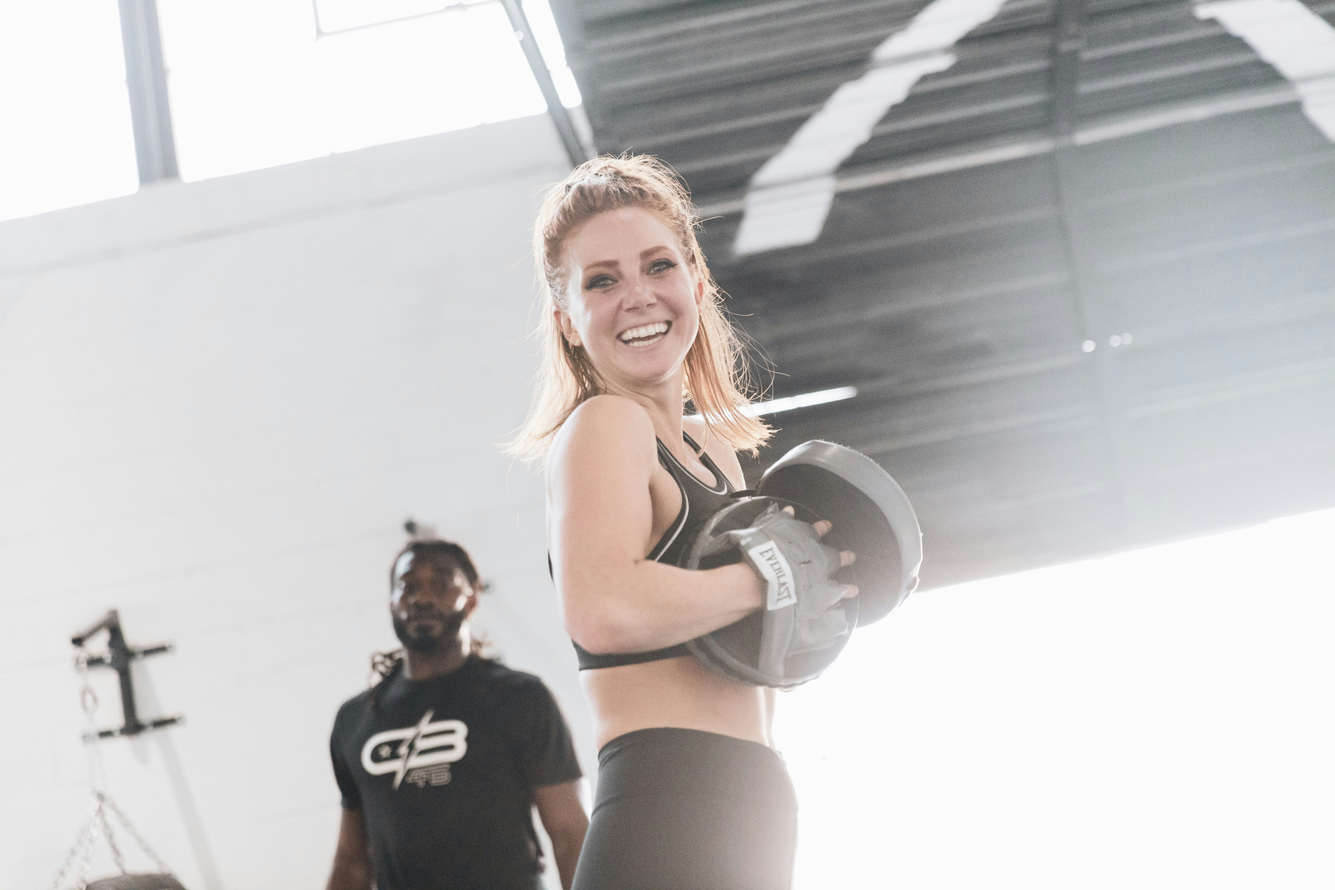
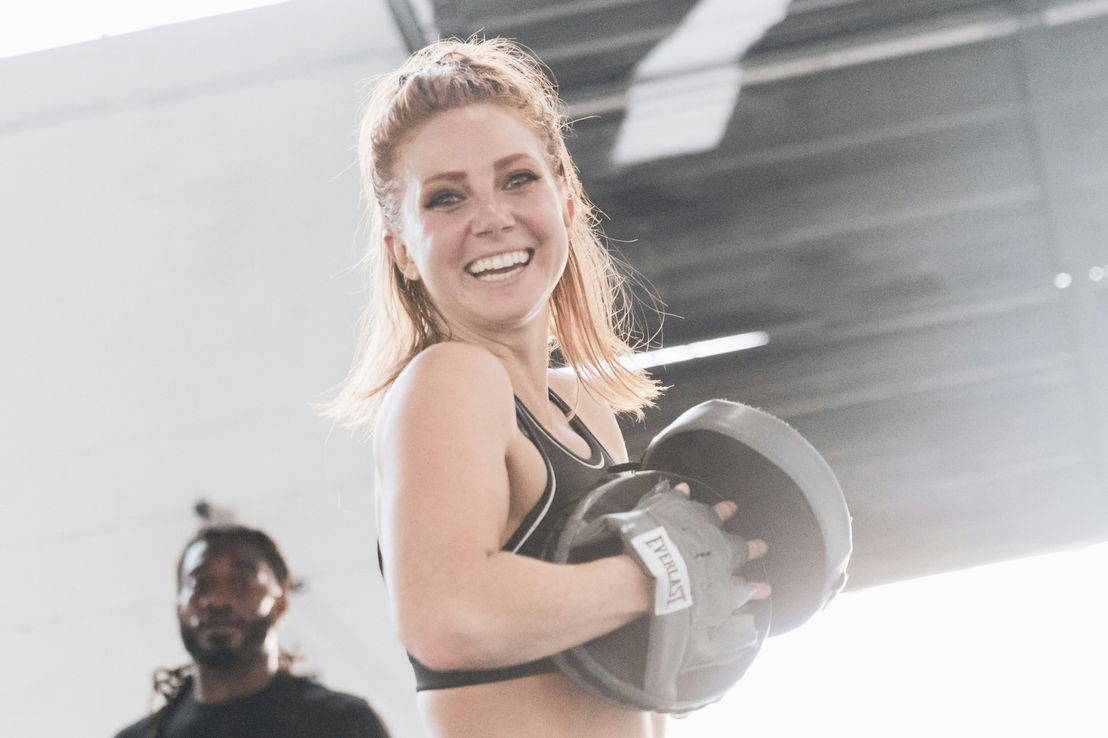
WIP: Continued working on the personal trainers section of the homepage, potentially done maybe?

diff --git a/src/components/TrainerCard.vue b/src/components/TrainerCard.vue
@@ -31,13 +31,9 @@ defineProps({
 
 <style scoped>
 section.trainer-card {
-  display: flex;
-  flex-direction: column;
-  //border: 1px solid lightgray;
-  //border-radius: 10px;
+  display: block;
   width: 100%;
-  gap: 1rem;
-  padding: 1rem 0 1rem 0;
+  padding: 1rem 0 2rem 0;
   align-items: center;
   text-align: center;
 
@@ -45,31 +41,29 @@ section.trainer-card {
     list-style-position: inside;
   }
 
-
   .photo {
-    height: 225px;
-    width: 450px;
 
     img {
       width: 100%;
       display: block;
       max-height: 225px;
       object-fit: cover;
-    }
-
-    div.details {
-      display: flex;
-      padding: 1rem;
-
-      p {
-        text-align: center;
-      }
+      object-position: 0 10%;
     }
   }
 
-  button {
-    background-color: #272727;
-    color: white;
+  div.details {
+    padding: 1rem;
+
+    p {
+      text-align: center;
+    }
   }
 }
+
+button {
+  background-color: #272727;
+  color: white;
+}
+
 </style>

diff --git a/src/trainer_data.js b/src/trainer_data.js
@@ -5,7 +5,7 @@ const data =
             "photo": "src/assets/simone-davis.jpg",
             "first_name": "Simone",
             "last_name": "Davis",
-            "description": "With a passion for inclusivity, Simone creates dynamic and energetic classes that focus on cardio and high-intensity interval training. As an advocate for body positivity, Simone encourages a supportive environment.",
+            "description": "With a passion for inclusivity, Simone creates dynamic and energetic classes that focus on cardio and HIIT. As an advocate for body positivity, Simone encourages a supportive environment.",
             "certification1": "Certified Personal Trainer (CPT)",
             "certification2": "Certified Group Fitness Instructor (CGFI)",
             "certification3": "High-Intensity Interval Training (HIIT) Certification"

diff --git a/src/components/Home.vue b/src/components/Home.vue
@@ -123,17 +123,20 @@ h1 {
 div.membership-card {
   display: flex;
   flex-direction: column;
-  gap: 2rem;
   justify-content: center;
   //margin: 1rem 5rem 1rem 5rem;
 }
 
 section.trainers {
-  display: flex;
-  flex-direction: row;
-  gap: 2rem;
+  gap: 3rem;
   justify-content: center;
-  overflow: scroll;
+  margin: 0 2rem 0 2rem;
+}
+
+@media screen and (min-width: 700px) {
+  div.membership-card {
+    flex-direction: row;
+  }
 }
 
 @media screen and (width > 1000px) {
@@ -168,11 +171,15 @@ section.trainers {
     }
   }
 
-
   div.membership-card {
     flex-direction: row;
     //margin: 1rem 10rem 1rem 10rem;
     gap: 5rem;
+  }
+
+  section.trainers {
+    display: flex;
+    flex-direction: row;
   }
 }
 </style>

diff --git a/src/components/MembershipCard.vue b/src/components/MembershipCard.vue
@@ -42,14 +42,34 @@ section.membership-card {
     margin: .5rem;
   }
 
+  p {
+    font-size:.7rem;
+  }
+
   h1 {
     font-family: "Azo Sans", Helvetica, sans-serif;
     font-weight: bold;
-    font-size: 2em;
+    font-size: 1.5em;
     text-transform: uppercase;
   }
 }
+
+@media screen and (width > 1000px) {
+
+  section.membership-card {
+
+    h1 {
+      font-size: 2em;
+    }
+
+    p {
+      font-size: 1rem;
+    }
+  }
+}
 </style>
+
+
 
 <style>
 .membership-cost {
